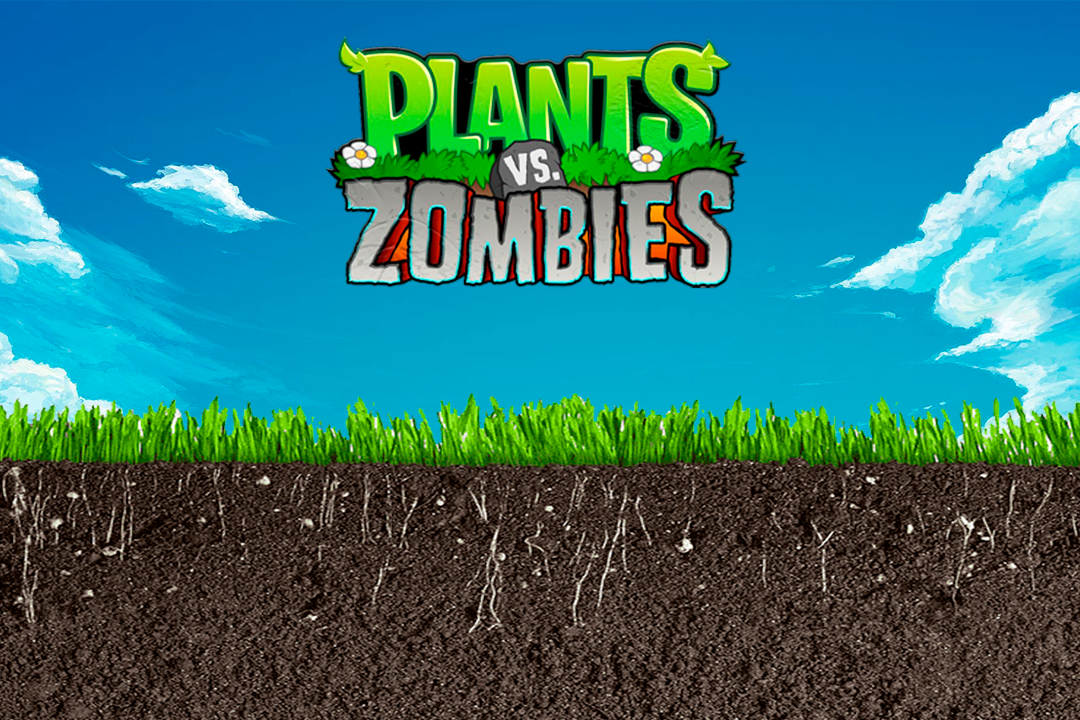
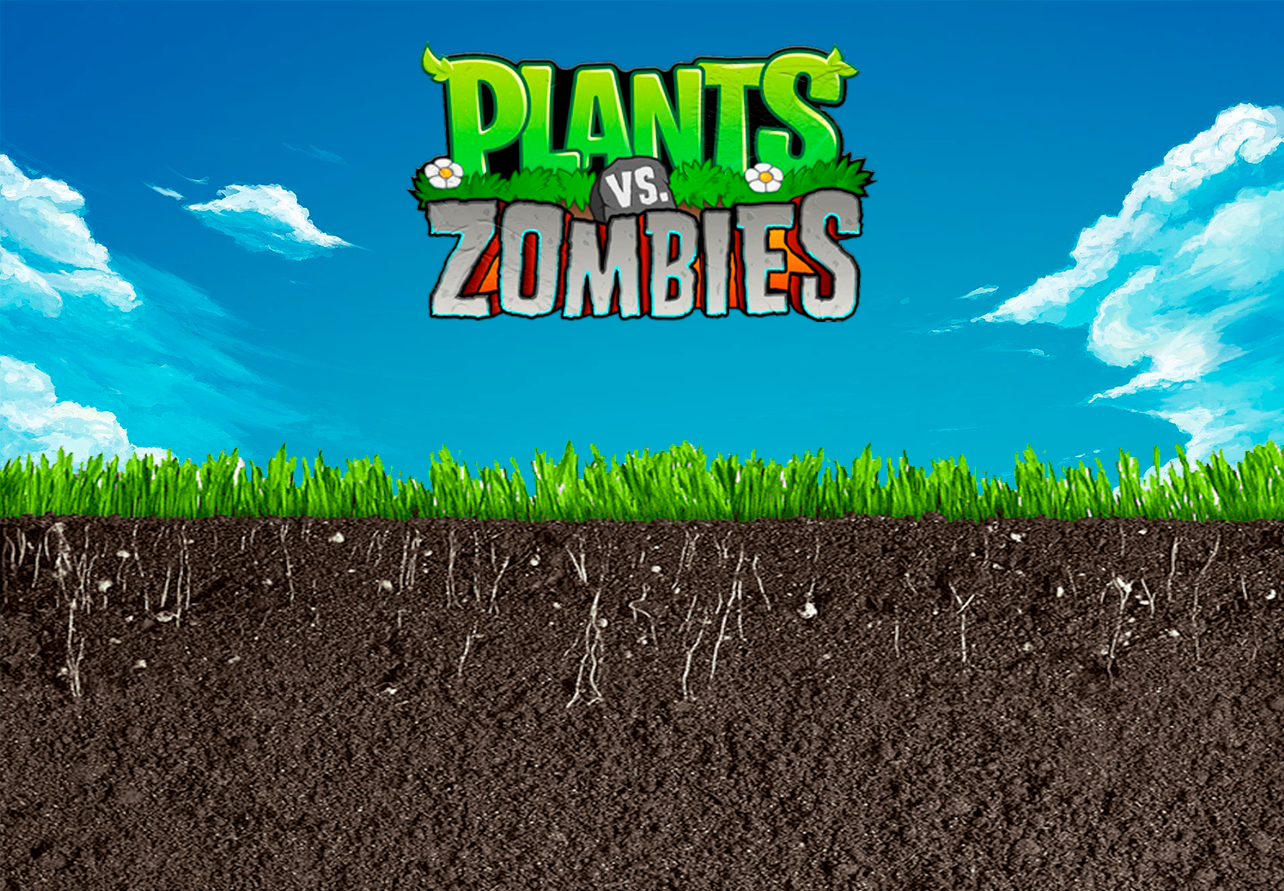
Mas retoques en parte grafica

diff --git a/src/GUI/mainGUI.java b/src/GUI/mainGUI.java
@@ -37,6 +37,8 @@ public class mainGUI extends JFrame implements Runnable {
 	protected JPanel mapPanel;
 	protected JLabel lblCantSoles;
 	protected JLabel lblSol;
+	protected JLabel lblImageMap;
+	protected ImageIcon nightMap,dayMap;
 	public Thread hiloJuego;
 	private AudioPlayer ap;
 	private Thread hiloMusica;
@@ -78,10 +80,11 @@ public class mainGUI extends JFrame implements Runnable {
 		contentPane.add(inGamePanel);
 		inGamePanel.setLayout(null);
 		
-		JLabel lblImageMap = new JLabel("");
+		lblImageMap = new JLabel("");
 		lblImageMap.setBounds(10, 111, 1262, 780);
 		inGamePanel.add(lblImageMap);
-		lblImageMap.setIcon(new ImageIcon(this.getClass().getResource("/Images/Map.png")));
+		nightMap = new ImageIcon(this.getClass().getResource("/Images/nightMap.png"));
+		dayMap = new ImageIcon(this.getClass().getResource("/Images/Map.png"));
 		mapPanel = new JPanel();
 		mapPanel.setBackground(new Color(0, 255, 0));
 		mapPanel.setBounds(320, 205, 900, 600);
@@ -180,7 +183,7 @@ public class mainGUI extends JFrame implements Runnable {
 		//BOTONES DE MENU
 		JButton btnJugar = new JButton("JUGAR");
 		btnJugar.setFont(new Font("Kozuka Gothic Pro R", Font.BOLD, 17));
-		btnJugar.setBounds(516, 576, 250, 114);
+		btnJugar.setBounds(465, 574, 350, 125);
 		menuPanel.add(btnJugar);
 		btnJugar.setForeground(Color.black);
 	    btnJugar.setOpaque(false);
@@ -190,14 +193,16 @@ public class mainGUI extends JFrame implements Runnable {
 						,JOptionPane.YES_NO_CANCEL_OPTION,JOptionPane.QUESTION_MESSAGE,null,new Object[] { "NIVEL 1", "NIVEL 2"},"opcion1"); 
 				seleccionModo = JOptionPane.showOptionDialog(menuPanel,"Seleccione el modo de juego", ""
 							,JOptionPane.YES_NO_CANCEL_OPTION,JOptionPane.QUESTION_MESSAGE,null,new Object[] { "MODO DIA", "MODO NOCHE"},"opcion1"); 
-				
-				iniciarNuevoJuego(seleccionNivel,seleccionModo);	
-				//audioOn();
+				if(seleccionNivel != JOptionPane.CLOSED_OPTION && seleccionModo != JOptionPane.CLOSED_OPTION) {
+					iniciarNuevoJuego(seleccionNivel,seleccionModo);	
+					audioOn();
+				}
+
 			}
 		});	
 
 		JButton btnManual = new JButton("MANUAL");
-		btnManual.setBounds(643, 692, 123, 52);
+		btnManual.setBounds(642, 712, 173, 52);
 		menuPanel.add(btnManual);
 		btnManual.addActionListener(new ActionListener() {
 			public void actionPerformed(ActionEvent e) {
@@ -209,7 +214,7 @@ public class mainGUI extends JFrame implements Runnable {
 		btnManual.setEnabled(false);
 		
 		JButton btnSalir = new JButton("SALIR");
-		btnSalir.setBounds(516, 692, 123, 52);
+		btnSalir.setBounds(465, 712, 173, 52);
 		menuPanel.add(btnSalir);
 		btnSalir.addActionListener(new ActionListener() {
 			@Override
@@ -221,7 +226,7 @@ public class mainGUI extends JFrame implements Runnable {
 
 		JLabel lblImageMenu = new JLabel("");
 		lblImageMenu.setHorizontalAlignment(SwingConstants.CENTER);
-		lblImageMenu.setBounds(0, 0, 1272, 878);
+		lblImageMenu.setBounds(0, 0, 1284, 891);
 		menuPanel.add(lblImageMenu);
 		lblImageMenu.setIcon(imagenPortadaMenu);
 
@@ -302,6 +307,10 @@ public class mainGUI extends JFrame implements Runnable {
 		hiloJuego.start();
 		gameStart = true;
 		pintarMatriz();
+		if(modo == 1)
+			lblImageMap.setIcon(nightMap);
+		else
+			lblImageMap.setIcon(dayMap);
 	}
 	
 	
